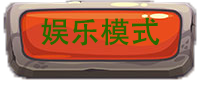
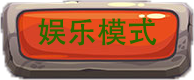
by lixin
添加了按钮效果，做了个演示迷宫生成的按钮和对应函数，先试下有什么bug，娱乐模式的bug没改，先略过

diff --git a/maze/maze.h b/maze/maze.h
@@ -65,6 +65,8 @@ private slots:
     void movemouse2();
     void movemouse3();
     void walk();
+    void present();
+    void dwall();
 private:
     Ui::maze *ui;
     QPushButton* setting;
@@ -95,6 +97,8 @@ private:
     QVector<square*>ground;
     QVector<square*>change;
     QTimer *cattimer;
+    QPushButton* presentation;
+    QTimer* ptimer;
 
 };
 static int gamesta=0;
